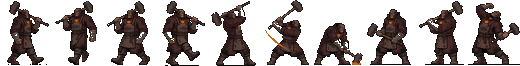
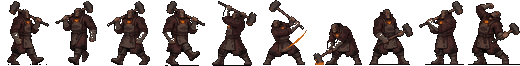
fix: hero attack frames mirrored (uniform facing) + HUD readability/right-edge
- FACING: the hero atlas mixed facings (walk/idle/hurt face left, attack faced
  right) so the hero flipped between forward/back while fighting. Mirrored the
  attack frames so the whole atlas faces left; combined with the facing===1 flip
  the hero now always faces travel direction (walk AND attack).
- HUD: SCORE/CREDIT bumped to 12px in wider plates (readability); CREDIT pulled
  in from the right edge so the CRT barrel no longer clips it.

npm run check GREEN (129). CDP: hero facing 1 -> flipX true, zero console errors.

Changed region(s): [[0.4, 0.0, 0.8, 1.0]]

diff --git a/src/adapters/phaser/views/Hud.ts b/src/adapters/phaser/views/Hud.ts
@@ -8,7 +8,7 @@ export interface HudModel { hp: number; maxHp: number; score: number; credits: n
 
 // All positions on the 8-px grid inside the 16-px top band (Design §3.2).
 const HEALTH = { x: 8, y: 4, w: 96, h: 8 };
-const SCORE_X = 128, CREDITS_X = 296;
+const SCORE_X = 126, CREDITS_X = 262; // CREDIT pulled in from the right so the CRT barrel doesn't clip it
 const HEAT = { x: 8, y: 208, w: 64, h: 8 };
 
 export class Hud {
@@ -17,9 +17,9 @@ export class Hud {
   private credits: Phaser.GameObjects.Text;
   constructor(private scene: Phaser.Scene) {
     this.g = scene.add.graphics().setDepth(2000).setScrollFactor(0);
-    const style = { fontFamily: UI_FONT, fontSize: '11px', fontStyle: '700', color: '#e8dcc0' };
-    this.score = scene.add.text(SCORE_X, 3, 'SCORE 000000', style).setDepth(2001).setScrollFactor(0).setResolution(4);
-    this.credits = scene.add.text(CREDITS_X, 3, 'CREDIT 0', style).setDepth(2001).setScrollFactor(0).setResolution(4);
+    const style = { fontFamily: UI_FONT, fontSize: '12px', fontStyle: '700', color: '#e8dcc0' };
+    this.score = scene.add.text(SCORE_X, 2, 'SCORE 000000', style).setDepth(2001).setScrollFactor(0).setResolution(4);
+    this.credits = scene.add.text(CREDITS_X, 2, 'CREDIT 0', style).setDepth(2001).setScrollFactor(0).setResolution(4);
   }
   // Hidden outside PLAY/CONTINUE by the coin-op machine (ticket 18); re-shown a frame before the next render.
   setVisible(v: boolean): void { this.g.setVisible(v); this.score.setVisible(v); this.credits.setVisible(v); }
@@ -27,7 +27,7 @@ export class Hud {
   render(m: HudModel): void {
     const g = this.g; g.clear();
     // plates: one shared style (dark plate + brass border) so the three elements read as one group (Design §3.2)
-    const PLATES = [{ x: HEALTH.x - 4, w: HEALTH.w + 8 }, { x: SCORE_X - 4, w: 108 }, { x: CREDITS_X - 4, w: 76 }];
+    const PLATES = [{ x: HEALTH.x - 4, w: HEALTH.w + 8 }, { x: SCORE_X - 6, w: 120 }, { x: CREDITS_X - 6, w: 92 }];
     for (const p of PLATES) {
       g.fillStyle(HUD_COLOURS.plate, 1); g.fillRect(p.x, 0, p.w, 16);
       g.lineStyle(1, HUD_COLOURS.brass, 1); g.strokeRect(p.x + 0.5, 0.5, p.w - 1, 15);
